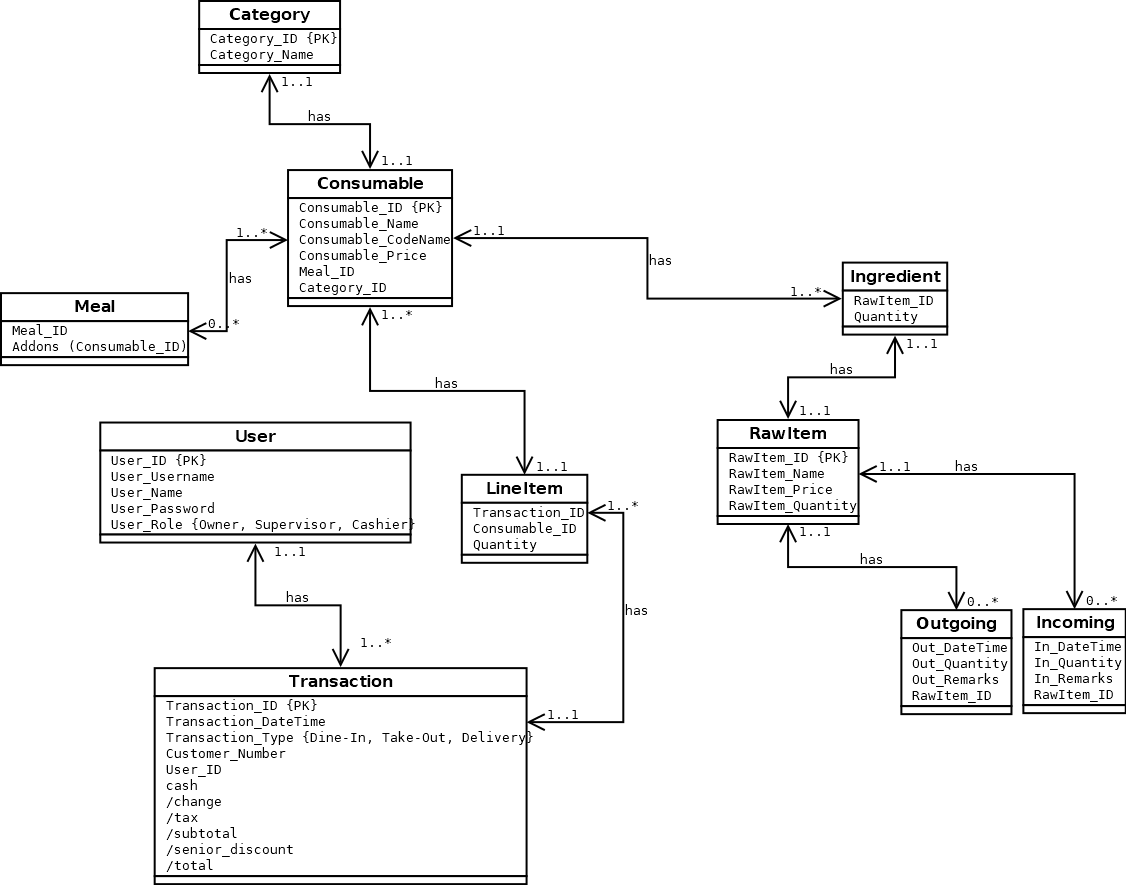
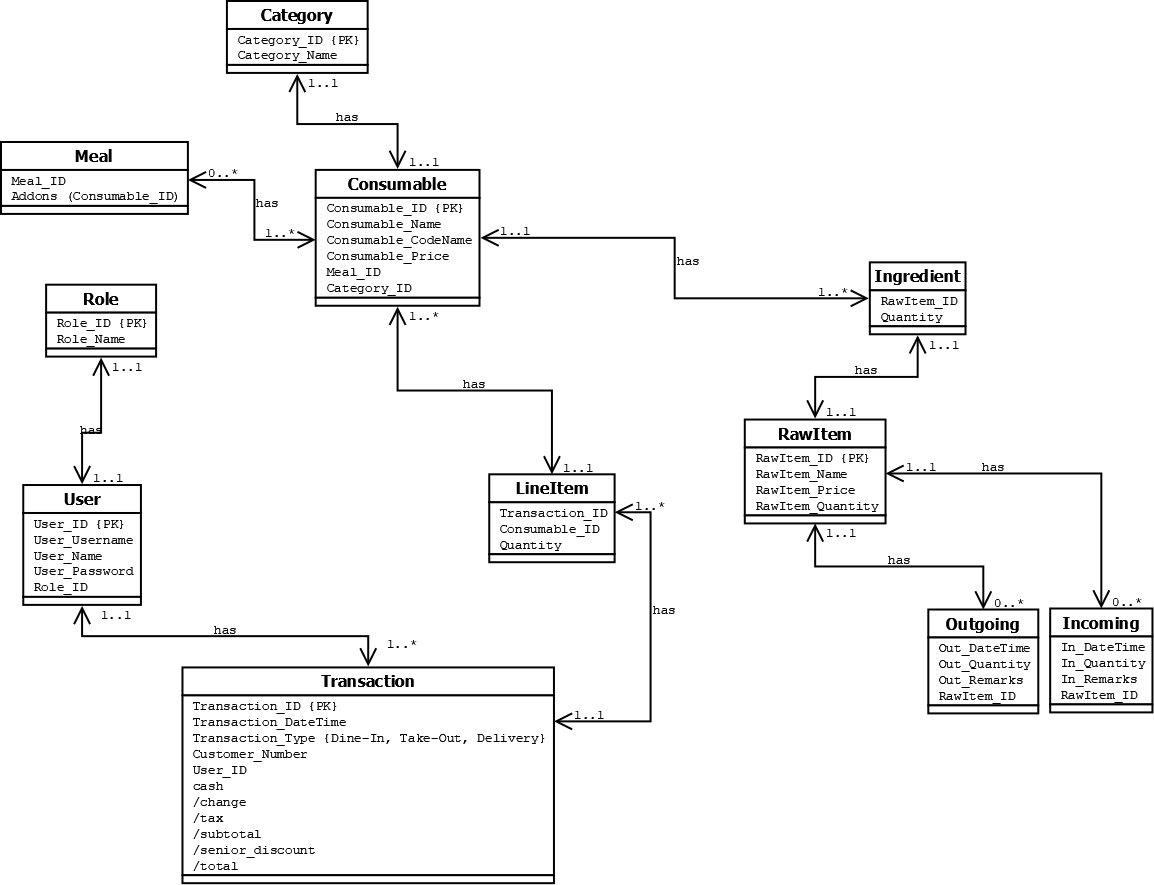
database model update
its huuuuuuuuuuuuuuuuuuuuuuuuuuuuuuuuuuuuuuuuuuuuuuuuuuuuuuuuuuuuuuuuuuuuuuuuuuuuuge  - Donald Trump

diff --git a/src/model/DatabaseModel.java b/src/model/DatabaseModel.java
@@ -26,6 +26,43 @@ public class DatabaseModel{
         return data;
     }
 
+    public Category searchCategory(int id){
+        ArrayList<Category> data = getCategories();
+        for(int i=0; i<data.size(); i++){
+            if(id == data.get(i).getCategoryId()){
+                return data.get(i);
+            }
+        }
+        return null;
+    }
+
+    public ArrayList<Role> getRoles(){
+        dbc = DBConnection.getConnection ();
+        ArrayList<Role> data = new ArrayList<Role>(); 
+        try{
+            ResultSet rs = dbc.executeQuery ("select * from role");
+            while(rs.next()){
+                Role r = new Role (Integer.valueOf(rs.getString(1)), rs.getString(2));
+                data.add(r);
+            }
+        } catch(Exception e){
+            System.out.println(e);
+        } finally{
+            dbc.closeConnection();
+        }
+        return data;
+    }
+
+    public Role searchRole(int id){
+        ArrayList<Role> data = getRoles();
+        for(int i=0; i<data.size(); i++){
+            if(id == data.get(i).getRoleID()){
+                return data.get(i);
+            }
+        }
+        return null;
+    }
+
     public ArrayList<RawItem> getRawItems(){
         dbc = DBConnection.getConnection ();
         ArrayList<RawItem> data = new ArrayList<RawItem>(); 
@@ -43,16 +80,23 @@ public class DatabaseModel{
         return data;
     }
 
-    /**
-     * TODO: NULLS
-     */
+    public RawItem searchRawItem(int id){
+        ArrayList<RawItem> data = getRawItems();
+        for(int i=0; i<data.size(); i++){
+            if(id == data.get(i).getRawItemID()){
+                return data.get(i);
+            }
+        }
+        return null;
+    }
+
     public ArrayList<User> getUsers(){
         dbc = DBConnection.getConnection ();
         ArrayList<User> data = new ArrayList<User>(); 
         try{
             ResultSet rs = dbc.executeQuery ("select * from user");
             while(rs.next()){
-                User u = new User (Integer.valueOf(rs.getString(1)), rs.getString(2), rs.getString(3), rs.getString(4), null);
+                User u = new User (Integer.valueOf(rs.getString(1)), rs.getString(2), rs.getString(3), rs.getString(4), searchRole(Integer.valueOf(rs.getString(5))));
                 data.add(u);
             }
         } catch(Exception e){
@@ -61,6 +105,16 @@ public class DatabaseModel{
             dbc.closeConnection();
         }
         return data;
+    }
+
+    public User searchUser(int id){
+        ArrayList<User> data = getUsers();
+        for(int i=0; i<data.size(); i++){
+            if(id == data.get(i).getUserID()){
+                return data.get(i);
+            }
+        }
+        return null;
     }
 
     /**
@@ -123,14 +177,14 @@ public class DatabaseModel{
         return data;
     }
 
-    public ArrayList<RawItem> getRawItems(){
+    public ArrayList<XRead> getXReadToday(){
         dbc = DBConnection.getConnection ();
-        ArrayList<RawItem> data = new ArrayList<RawItem>(); 
+        ArrayList<XRead> data = new ArrayList<XRead>(); 
         try{
-            ResultSet rs = dbc.executeQuery ("select * from rawitem");
+            ResultSet rs = dbc.executeQuery ("select u.*, sum(t.total) from user u, transaction t where u.User_ID=t.User_ID and t.Trans_DateTime=curdate() group by u.User_ID");
             while(rs.next()){
-                RawItem r = new RawItem (Integer.valueOf(rs.getString(1)), rs.getString(2), Integer.valueOf(rs.getString(4)), rs.getDouble(3));
-                data.add(r);
+                XRead x = new XRead (searchUser(Integer.valueOf(rs.getString(1))), rs.getDouble(8));
+                data.add(x);
             }
         } catch(Exception e){
             System.out.println(e);

diff --git a/src/model/User.java b/src/model/User.java
@@ -7,7 +7,7 @@ public class User {
     private String password;
     private Role role;
 
-    public User(String username, String userLoginName, String password, model.User.Role role) {
+    public User(String username, String userLoginName, String password, Role role) {
         this.userId = -1;
         this.username = username;
         this.userLoginName = userLoginName;
@@ -15,12 +15,16 @@ public class User {
         this.role = role;
     }
 
-    public User(int userId, String username, String userLoginName, String password, model.User.Role role) {
+    public User(int userId, String username, String userLoginName, String password, Role role) {
         this.userId = userId;
         this.username = username;
         this.userLoginName = userLoginName;
         this.password = password;
         this.role = role;
+    }
+
+    public int getUserID(){
+        return userId;
     }
 
     public String getusername() {
@@ -46,20 +50,5 @@ public class User {
 
     public void setPassword(String password) {
         this.password = password;
-    }
-
-    public model.User.Role getRole() {
-        return role;
-    }
-
-    /* I think this must be logged or something. - Gian */
-    public void setRole(model.User.Role role) {
-        this.role = role;
-    }
-
-    public enum Role {
-        OWNER,
-        SUPERVISOR,
-        CASHIER
     }
 }

diff --git a/src/model/Role.java b/src/model/Role.java
@@ -1,0 +1,19 @@
+package model;
+
+public class Role{
+    private int roleId;
+    private String roleName;
+
+    public Role(int roleId, String roleName){
+        this.roleId = roleId;
+        this.roleName = roleName;
+    }
+
+    public int getRoleID(){
+        return roleId;
+    }
+
+    public String getRoleName(){
+        return roleName;
+    }
+}

diff --git a/src/model/RawItem.java b/src/model/RawItem.java
@@ -20,6 +20,10 @@ public class RawItem {
         this.price = price;
     }
 
+    public int getRawItemID(){
+        return rawItemId;
+    }
+
     public String getName() {
         return name;
     }
